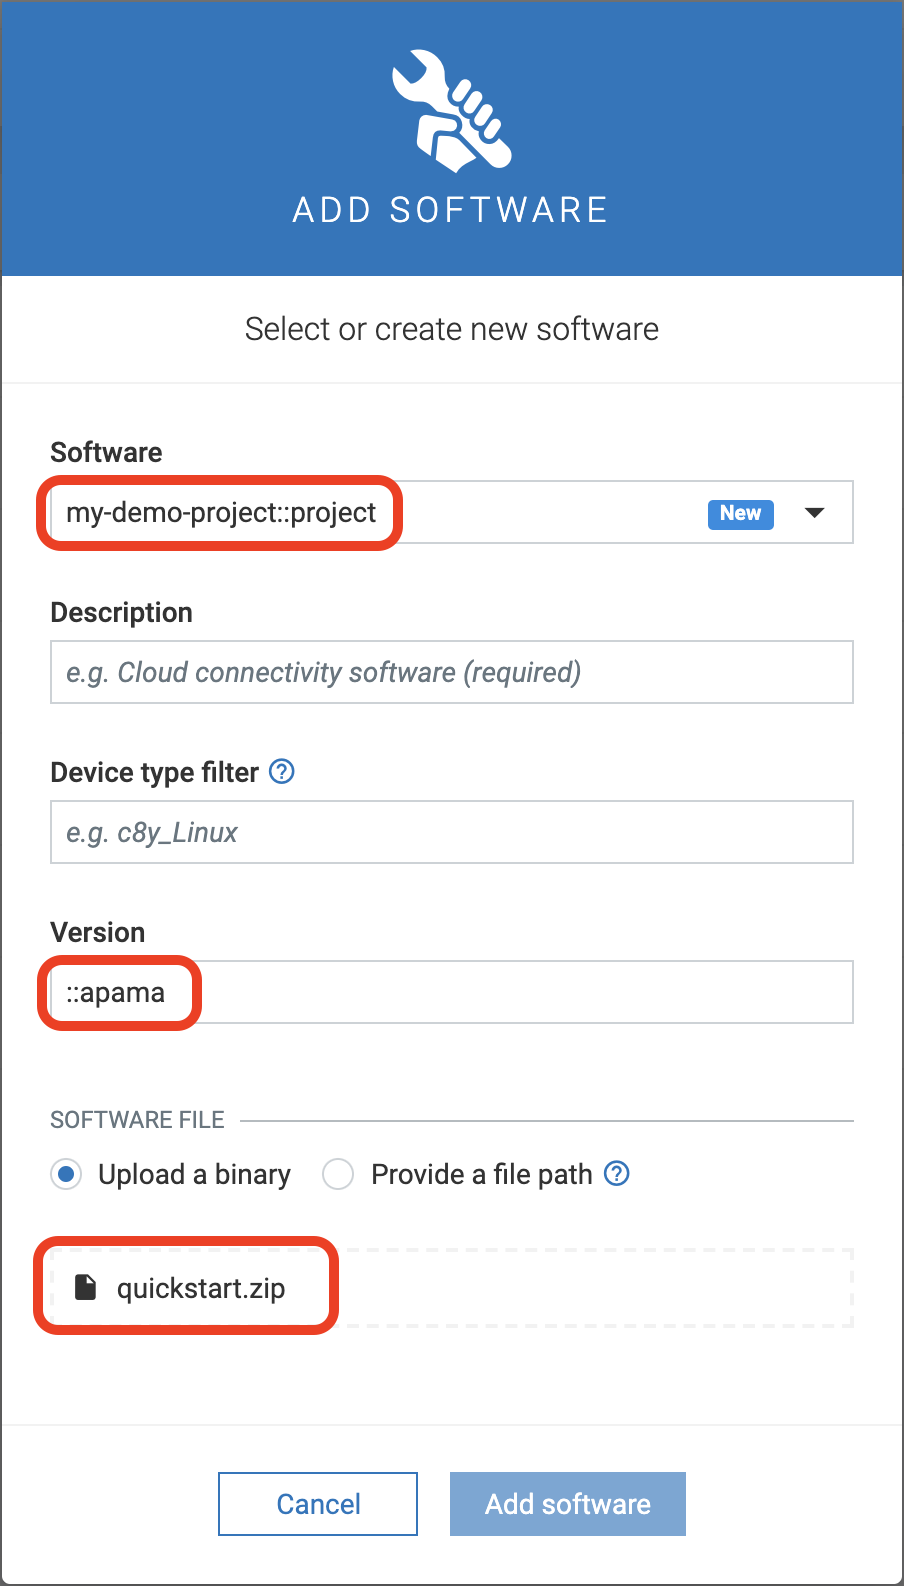
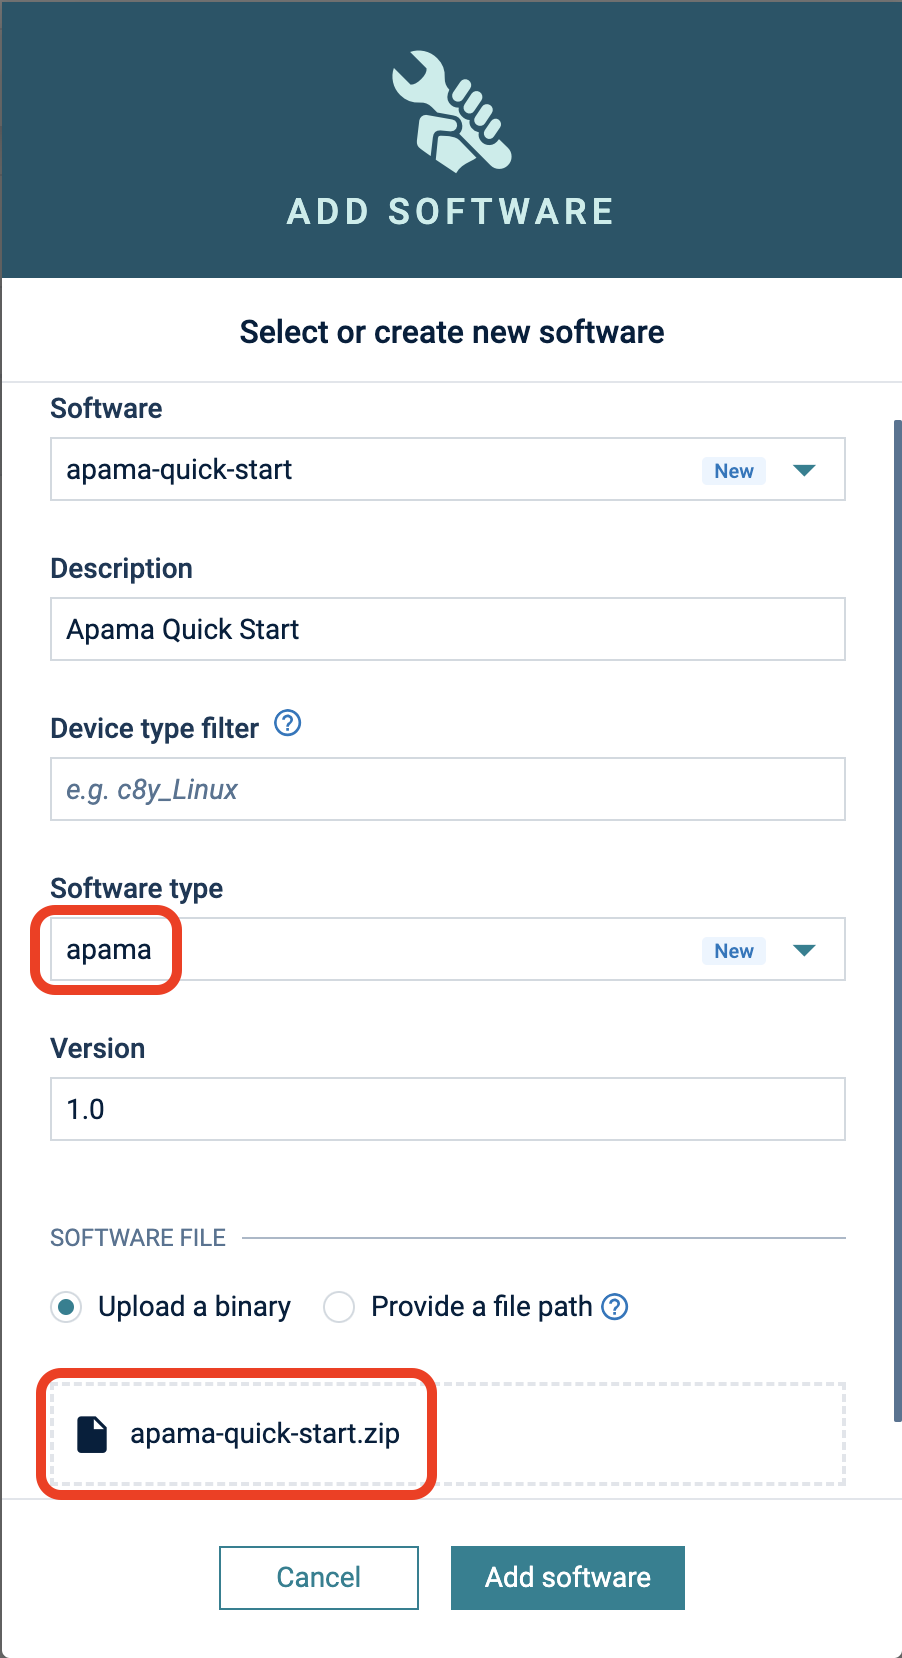
docs: Fix outdated Apama plugin documentation

diff --git a/docs/src/operate/c8y/apama.md b/docs/src/operate/c8y/apama.md
@@ -56,11 +56,14 @@ After installation of the support for Apama onto the %%te%% device, the correlat
 
 Before an Apama project can be installed on the device using the software management feature in Cumulocity, the project files need to be added to the Cumulocity software repository.
 
-There is a naming convention that you need to follow while creating software entries for Apama artifacts in the software repository.
+There are certain conventions that you need to follow while creating software entries for Apama artifacts in the software repository.
 
 For Apama projects:
 
-1. The uploaded binary must be a `zip` file that contains the `project` directory. If a directory named `project` is not found by the plugin at the root level in the zip, it is considered invalid.
+1. The software type must be `apama`.
+1. The uploaded binary must be a `zip` file that contains the `project` directory.
+   If a directory named `project` is not found by the plugin at the root level in the zip, it is considered invalid.
+
 
 <p align="center">
     <img
@@ -74,12 +77,8 @@ Once the software modules have been added to the software repository, these can 
 
 ### Testing Apama Plugin
 
-Here is an Apama project that you can use to test this plugin.
+Follow the instructions [here](https://github.com/thin-edge/thin-edge.io_examples/tree/main/StreamingAnalytics#deploying-the-project-to-thin-edge) to install a test project on the device.
 
-[project](https://github.com/thin-edge/thin-edge.io_examples/tree/main/StreamingAnalytics/src/quickstart)
-
-Zip this project and add it as a software package in the Cumulocity software repository by following the instructions in the previous section.
-Once added, this Apama project can be installed on any target device.
 You can test if the project was successfully installed by running the following Apama command:
 
 ```sh
@@ -94,4 +93,4 @@ Name                                               Num Sub Monitors
 TedgeDemoMonitor                                             1
 ```
 
-You can find more information on this test Apama project [here](https://github.com/thin-edge/thin-edge.io_examples/tree/main/StreamingAnalytics#testing-a-project).
+You can find more information on how to test this project [here](https://github.com/thin-edge/thin-edge.io_examples/tree/main/StreamingAnalytics#testing-a-project).
